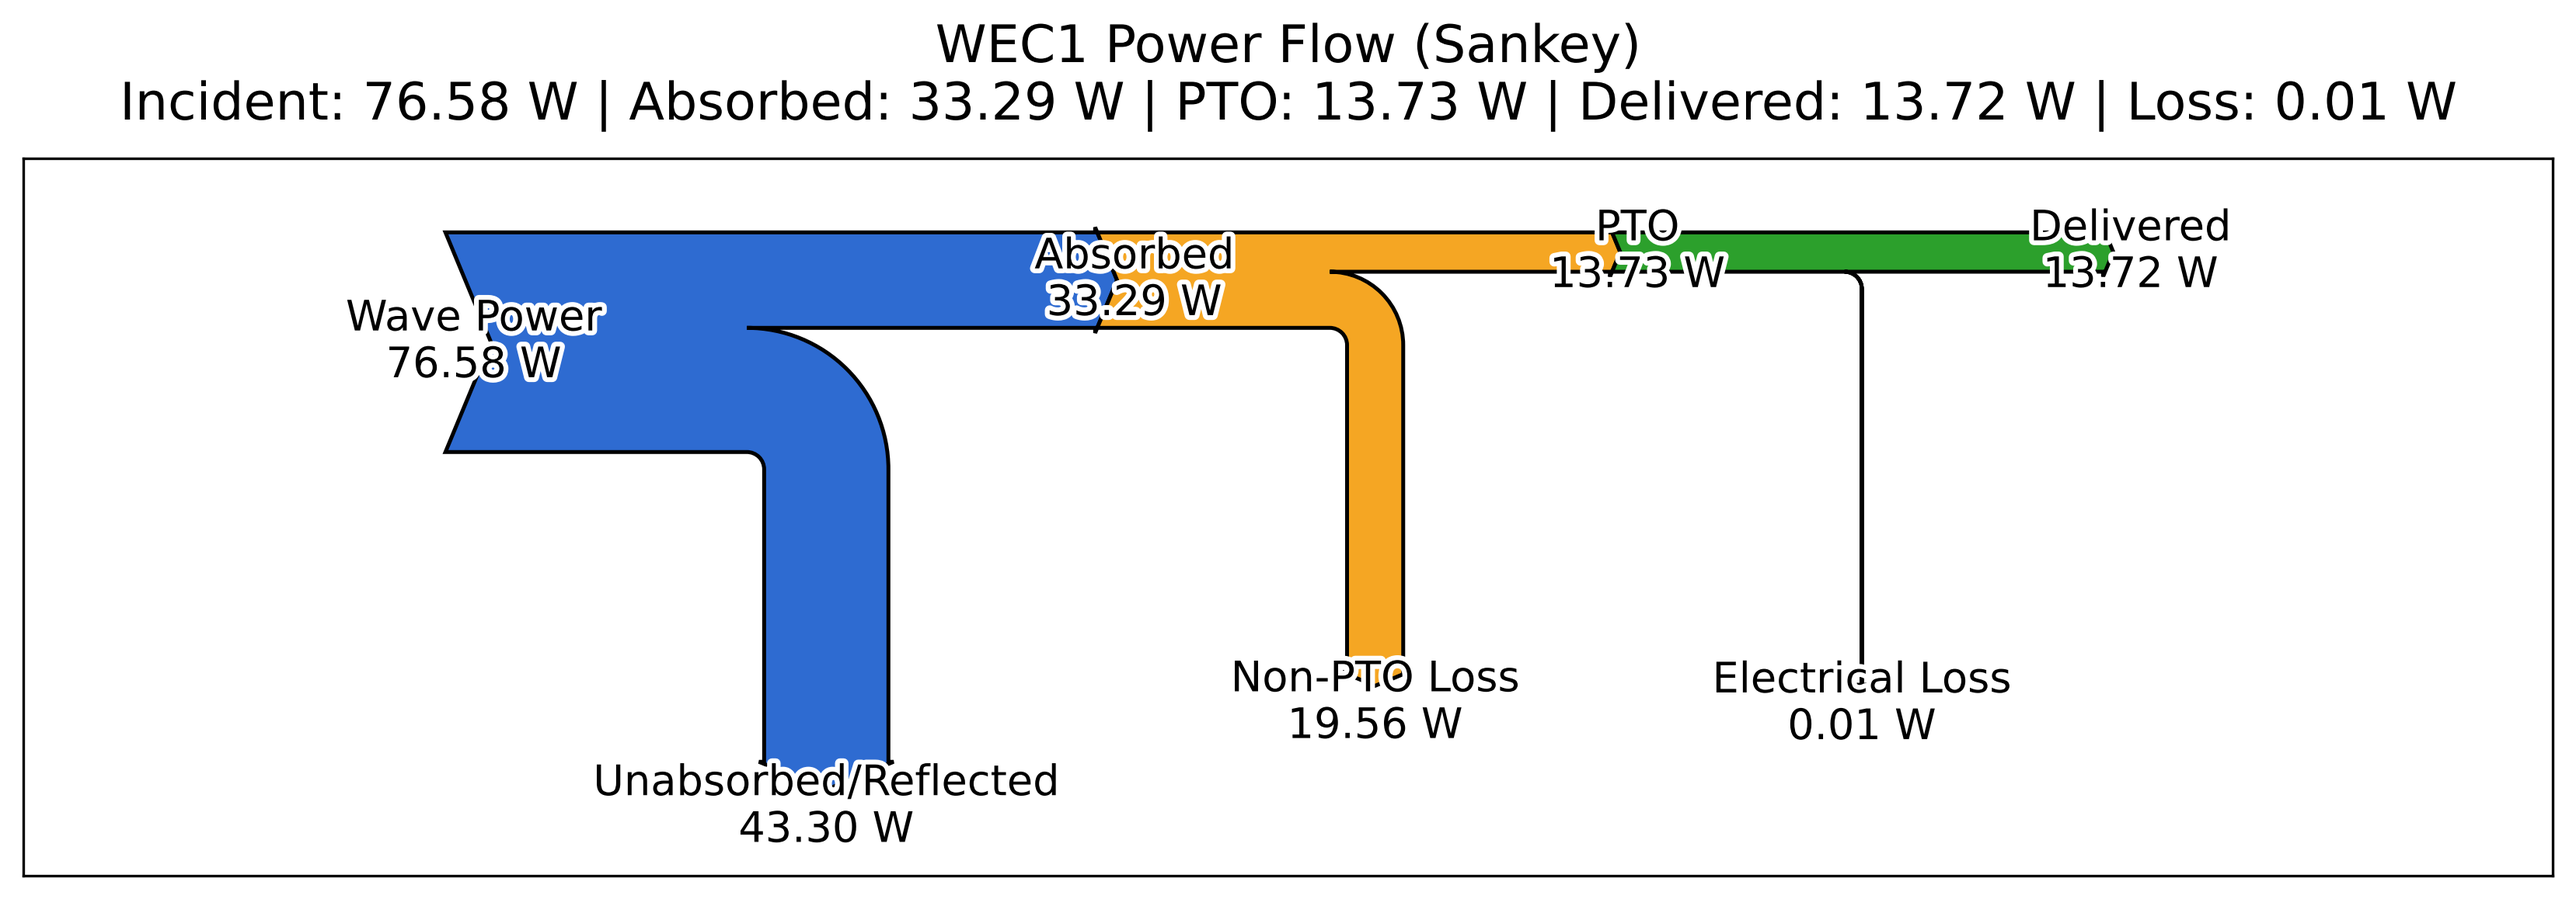
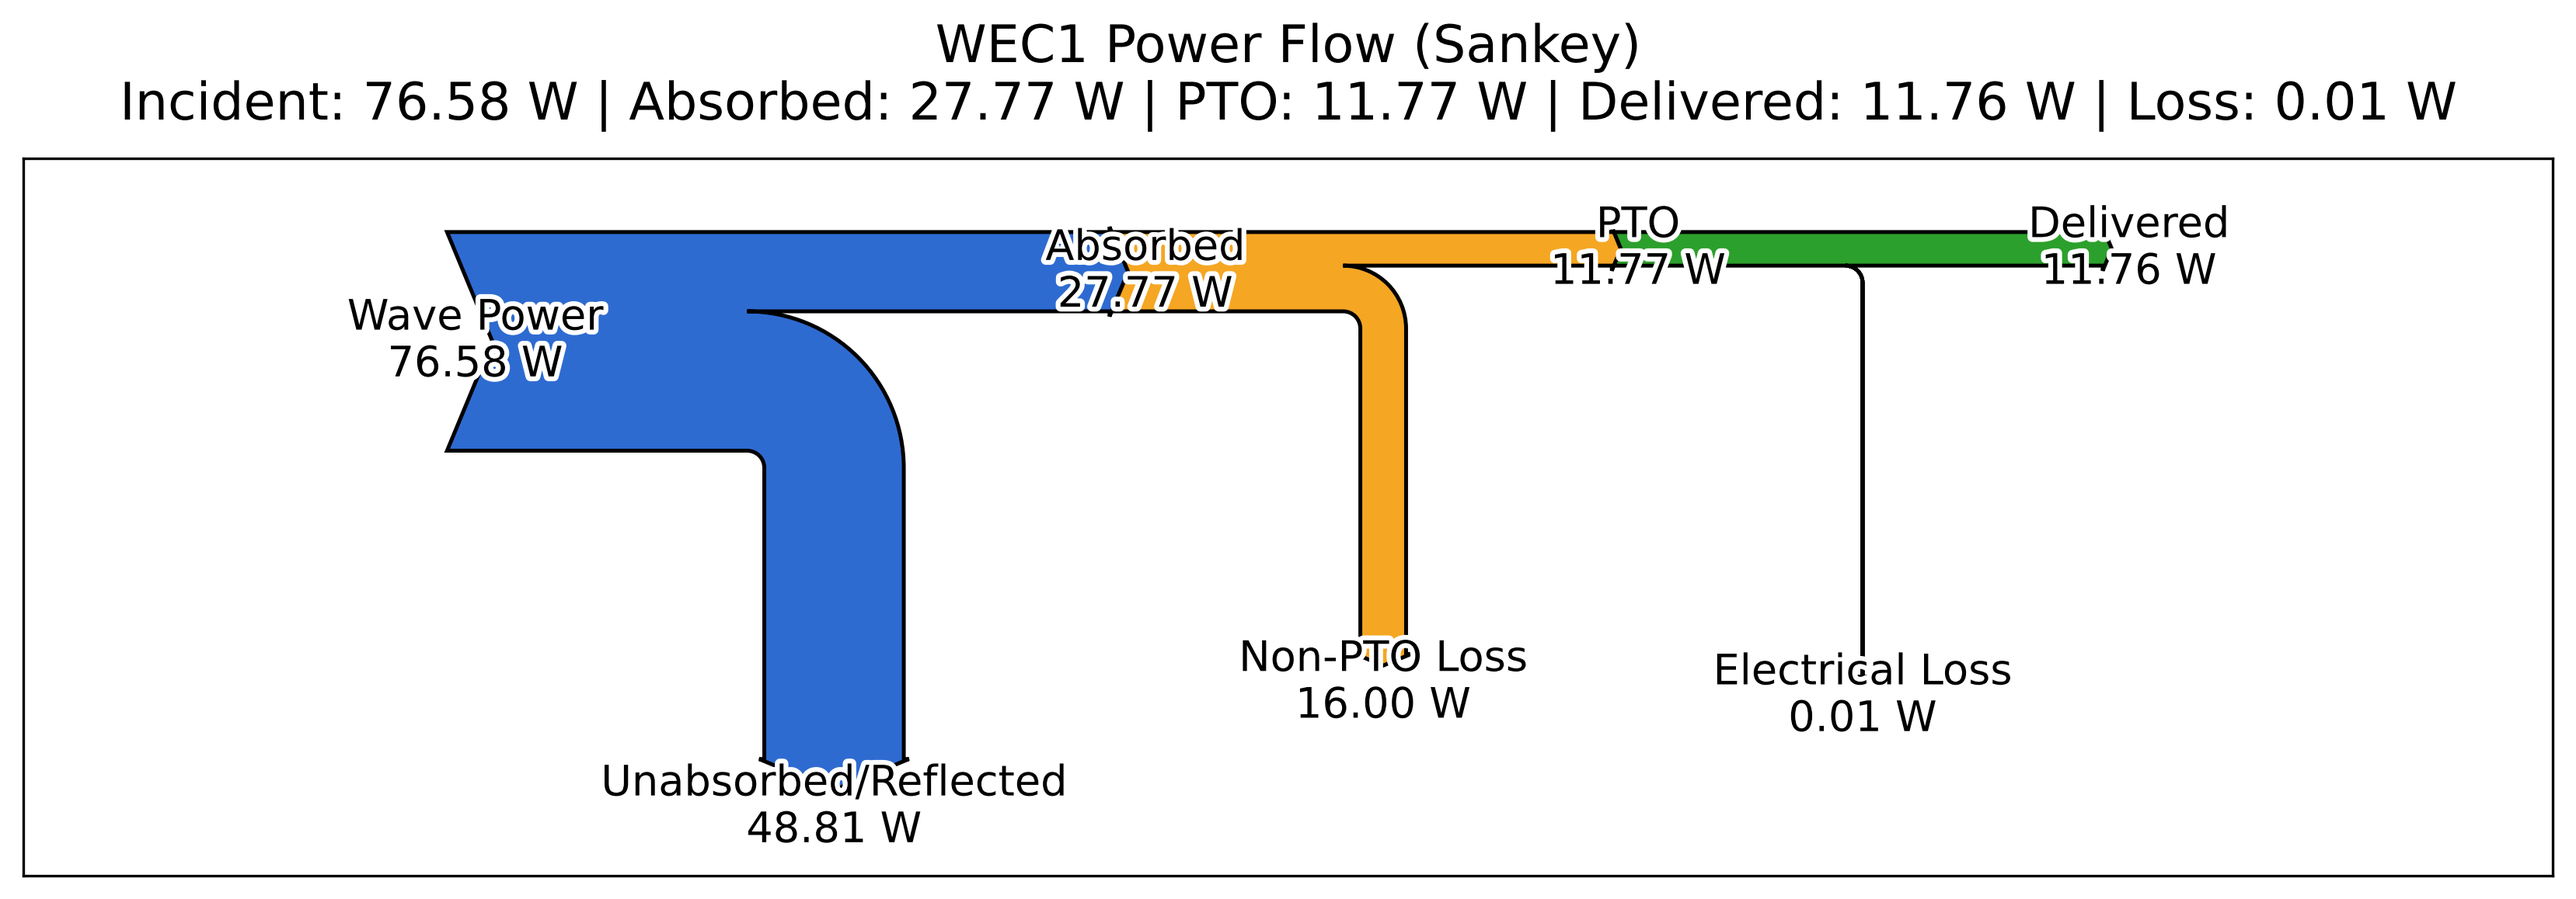
Sankey_figure_patch

diff --git a/Matlab model/WEC_array_model/functions/const_hydro.m b/Matlab model/WEC_array_model/functions/const_hydro.m
@@ -17,11 +17,11 @@ function [Fex7,M7,K_hs7,B_rad7,wave] = const_hydro(filename, Tc, bodyPair)
     details.Fex_b2.im=1000*h5read(filename, sprintf('/body%d/hydro_coeffs/excitation/im', body2));
     Fex_b1=complex(details.Fex_b1.re,details.Fex_b1.im);
     Fex_b2=complex(details.Fex_b2.re,details.Fex_b2.im);
-    nfreq = size(Fex_b1, 1);
+    nfreq = size(Fex_b1, 3);
     Fex7=zeros(nfreq,7,1);
     for ii=1:nfreq
-    details.Fex(ii,:,:) = [squeeze(Fex_b1(ii,:,:)); squeeze(Fex_b2(ii,:,:))];
-    Fex7(ii,:,:) = squeeze(details.Fex(ii,:,:))*Tc;
+    details.Fex(ii,:,:) = [squeeze(Fex_b1(:,:,ii)); squeeze(Fex_b2(:,:,ii))];
+    Fex7(ii,:,:) = Tc' * squeeze(details.Fex(ii,:,:));
     end
     
 
@@ -45,10 +45,14 @@ function [Fex7,M7,K_hs7,B_rad7,wave] = const_hydro(filename, Tc, bodyPair)
     M7 = zeros(nfreq,7,7);
     M_add7 = zeros(nfreq,7,7);
     for ii=1:nfreq
-    details.M.M_f(ii,:,:) = details.M.m_f+squeeze(details.M.m_a_f(ii,:,:));
-    details.M.M_s(ii,:,:) = details.M.m_s+squeeze(details.M.m_a_s(ii,:,:));
+    m_a_f = squeeze(details.M.m_a_f(:,:,ii));
+    m_a_s = squeeze(details.M.m_a_s(:,:,ii));
+    m_a_f = [m_a_f(:,1:6); zeros(6,6)];
+    m_a_s = [zeros(6,6); m_a_s(:,7:12)];
+    details.M.M_f(ii,:,:) = details.M.m_f + m_a_f;
+    details.M.M_s(ii,:,:) = details.M.m_s + m_a_s;
     details.M.Mass(ii,:,:) = [squeeze(details.M.M_f(ii,1:6,:)) zeros(6,6);zeros(6,6) squeeze(details.M.M_s(ii,7:12,:))];
-    details.M_add(ii,:,:) = [squeeze(details.M.m_a_f(ii,1:6,:)) zeros(6,6);zeros(6,6) squeeze(details.M.m_a_s(ii,7:12,:))];
+    details.M_add(ii,:,:) = [m_a_f(1:6,:) zeros(6,6);zeros(6,6) m_a_s(7:12,:)];
     M7(ii,:,:) = Tc'*squeeze(details.M.Mass(ii,:,:))*Tc;
     M_add7(ii,:,:) = Tc'*squeeze(details.M_add(ii,:,:))*Tc;
     end
@@ -72,8 +76,10 @@ function [Fex7,M7,K_hs7,B_rad7,wave] = const_hydro(filename, Tc, bodyPair)
     B_rad7 = zeros(nfreq,7,7);
     
     for ii=1:nfreq
-    details.B.B_f(ii,:,:) = 1000*wave.w(ii)*details.B.nf(ii,:,:); % radiation for all frequencies
-    details.B.B_s(ii,:,:) = 1000*wave.w(ii)*details.B.ns(ii,:,:); % radiation for all frequencies
+    B_f = squeeze(details.B.nf(:,:,ii));
+    B_s = squeeze(details.B.ns(:,:,ii));
+    details.B.B_f(ii,:,:) = 1000*wave.w(ii)*[B_f(:,1:6); zeros(6,6)]; % radiation for all frequencies
+    details.B.B_s(ii,:,:) = 1000*wave.w(ii)*[zeros(6,6); B_s(:,7:12)]; % radiation for all frequencies
     % details.B.B_rad(ii,:,:) = [squeeze(details.B.B_f(ii,:,:)) squeeze(details.B.B_s(ii,:,:))];
     details.B.B_rad(ii,:,:) = ...
     [squeeze(details.B.B_f(ii,1:6,:)) zeros(6,6); ... 

diff --git a/Matlab model/WEC_array_model/functions/build_sankey_postprocess.py b/Matlab model/WEC_array_model/functions/build_sankey_postprocess.py
@@ -16,13 +16,14 @@ def main():
     with open(path, "r", encoding="utf-8") as f:
         data = json.load(f)
 
-    wec1 = data["wec1"]
-    wec2 = data["wec2"]
-
-    figures_dir = os.path.join(os.getcwd(), "figures")
+    project_dir = os.path.dirname(os.path.abspath(path))
+    figures_dir = os.path.join(project_dir, "figures")
     os.makedirs(figures_dir, exist_ok=True)
     sankey1_path = os.path.join(figures_dir, "Sankey_WEC1.png")
     sankey2_path = os.path.join(figures_dir, "Sankey_WEC2.png")
+
+    wec1 = data["wec1"]
+    wec2 = data["wec2"]
 
     make_sankey(
         wec1["P_inc"],

diff --git a/Matlab model/WEC_array_model/launch_wec_demo.m b/Matlab model/WEC_array_model/launch_wec_demo.m
@@ -1,6 +1,3 @@
 % Launch the model and app, arranged side-by-side.
-model = 'LUPA_Array_Eqk_circuit_w_PTO_DC_link_v2';
-open_system(model);
 app = WEC_Sankey_App;
-set_param(model, 'Location', [50 50 1200 700]);
 app.UIFigure.Position = [700 300 800 1000];
